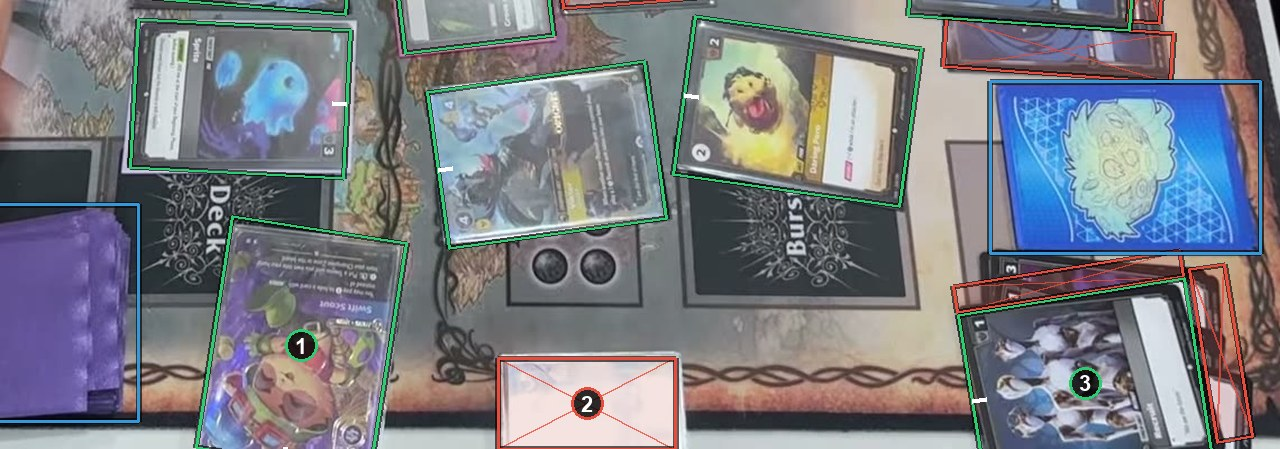
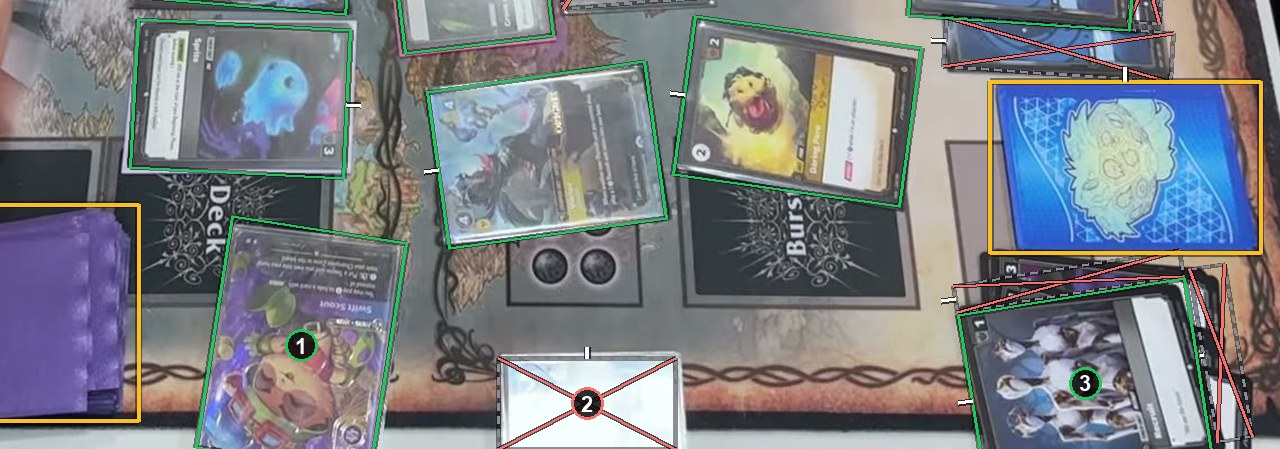
Images in the labeling tool's colors: orange backs, grey dotted ignore boxes with a red X, outward top ticks

diff --git a/cases/02-which-way-up/README.md b/cases/02-which-way-up/README.md
@@ -1,7 +1,7 @@
 # Which way up
 
-A box turns with its card. The white tick marks the card's own top. Card backs and ignore boxes have no tick, because their orientation does not matter. See [How to label](https://github.com/ryangswe/riftsight-vision/blob/main/docs/labeling.md#which-way-up).
+A box turns with its card. The white tick marks the card's own top. Card backs and ignore boxes have a tick too, but their orientation does not matter: do not spend time on it. See [How to label](https://github.com/ryangswe/riftsight-vision/blob/main/docs/labeling.md#which-way-up).
 
 ![Which way up](tilted-sideways-upside-down.jpg)
 
-Box 1 sits upright, so its tick is on the top edge. Box 2 is turned sideways and tilted, and its tick is on the side where the card's top is now. Box 3 is upside down and tilted, so its tick is near the bottom of the screen. Box 4 is a deck: a back box, with no tick.
+Box 1 sits upright, so its tick is on the top edge. Box 2 is turned sideways and tilted, and its tick is on the side where the card's top is now. Box 3 is upside down and tilted, so its tick is near the bottom of the screen. Box 4 is a deck: a back box, whose tick does not matter.

diff --git a/cases/03-overlapping-cards/README.md b/cases/03-overlapping-cards/README.md
@@ -4,7 +4,7 @@ Judge each card by what you can see. Less than about half hidden: a card box aro
 
 ![Overlapping cards](overlap.jpg)
 
-Box 1 is about a third hidden under box 2, so it gets a card box around its whole outline. Box 2 is on top and gets a card box too. Box 3 is mostly hidden under the card above it, so its ignore box covers just the part you can see. The thin red strips on the right are cards under other cards, each boxed to its visible part.
+Box 1 is about a third hidden under box 2, so it gets a card box around its whole outline. Box 2 is on top and gets a card box too. Box 3 is mostly hidden under the card above it, so its ignore box covers just the part you can see. The thin strips with a red X on the right are cards under other cards, each boxed to its visible part.
 
 ![Overlapping cards](shared-strips.jpg)
 

diff --git a/README.md b/README.md
@@ -7,10 +7,12 @@ recognition toolkit; the rules are written for card games in general, and Riftbo
 
 How to read a picture:
 
+The colors are the labeling tool's own:
+
 - **Solid green:** a card box, around the whole card (part of it may be hidden).
-- **Blue:** a card back.
-- **Red with an X:** an ignore box, around the visible part.
-- **The white tick** on a box's edge marks the card's own top.
+- **Solid orange:** a card back.
+- **Grey dotted, with a red X:** an ignore box, around the visible part.
+- **The white tick** sticking out of a box's edge marks the card's own top.
 
 ## The cases
 

diff --git a/cases/08-card-backs/README.md b/cases/08-card-backs/README.md
@@ -4,4 +4,4 @@ Each back gets a box. A neat deck gets one box, the top card's outline. A pile o
 
 ![Card backs](backs.jpg)
 
-Box 1 is a neat deck: one back box. Box 2 is a single face-down card: its own back box. Box 3 is a messy pile: one back box around the whole pile. The other blue boxes are backs too.
+Box 1 is a neat deck: one back box. Box 2 is a single face-down card: its own back box. Box 3 is a messy pile: one back box around the whole pile. The other orange boxes are backs too.
